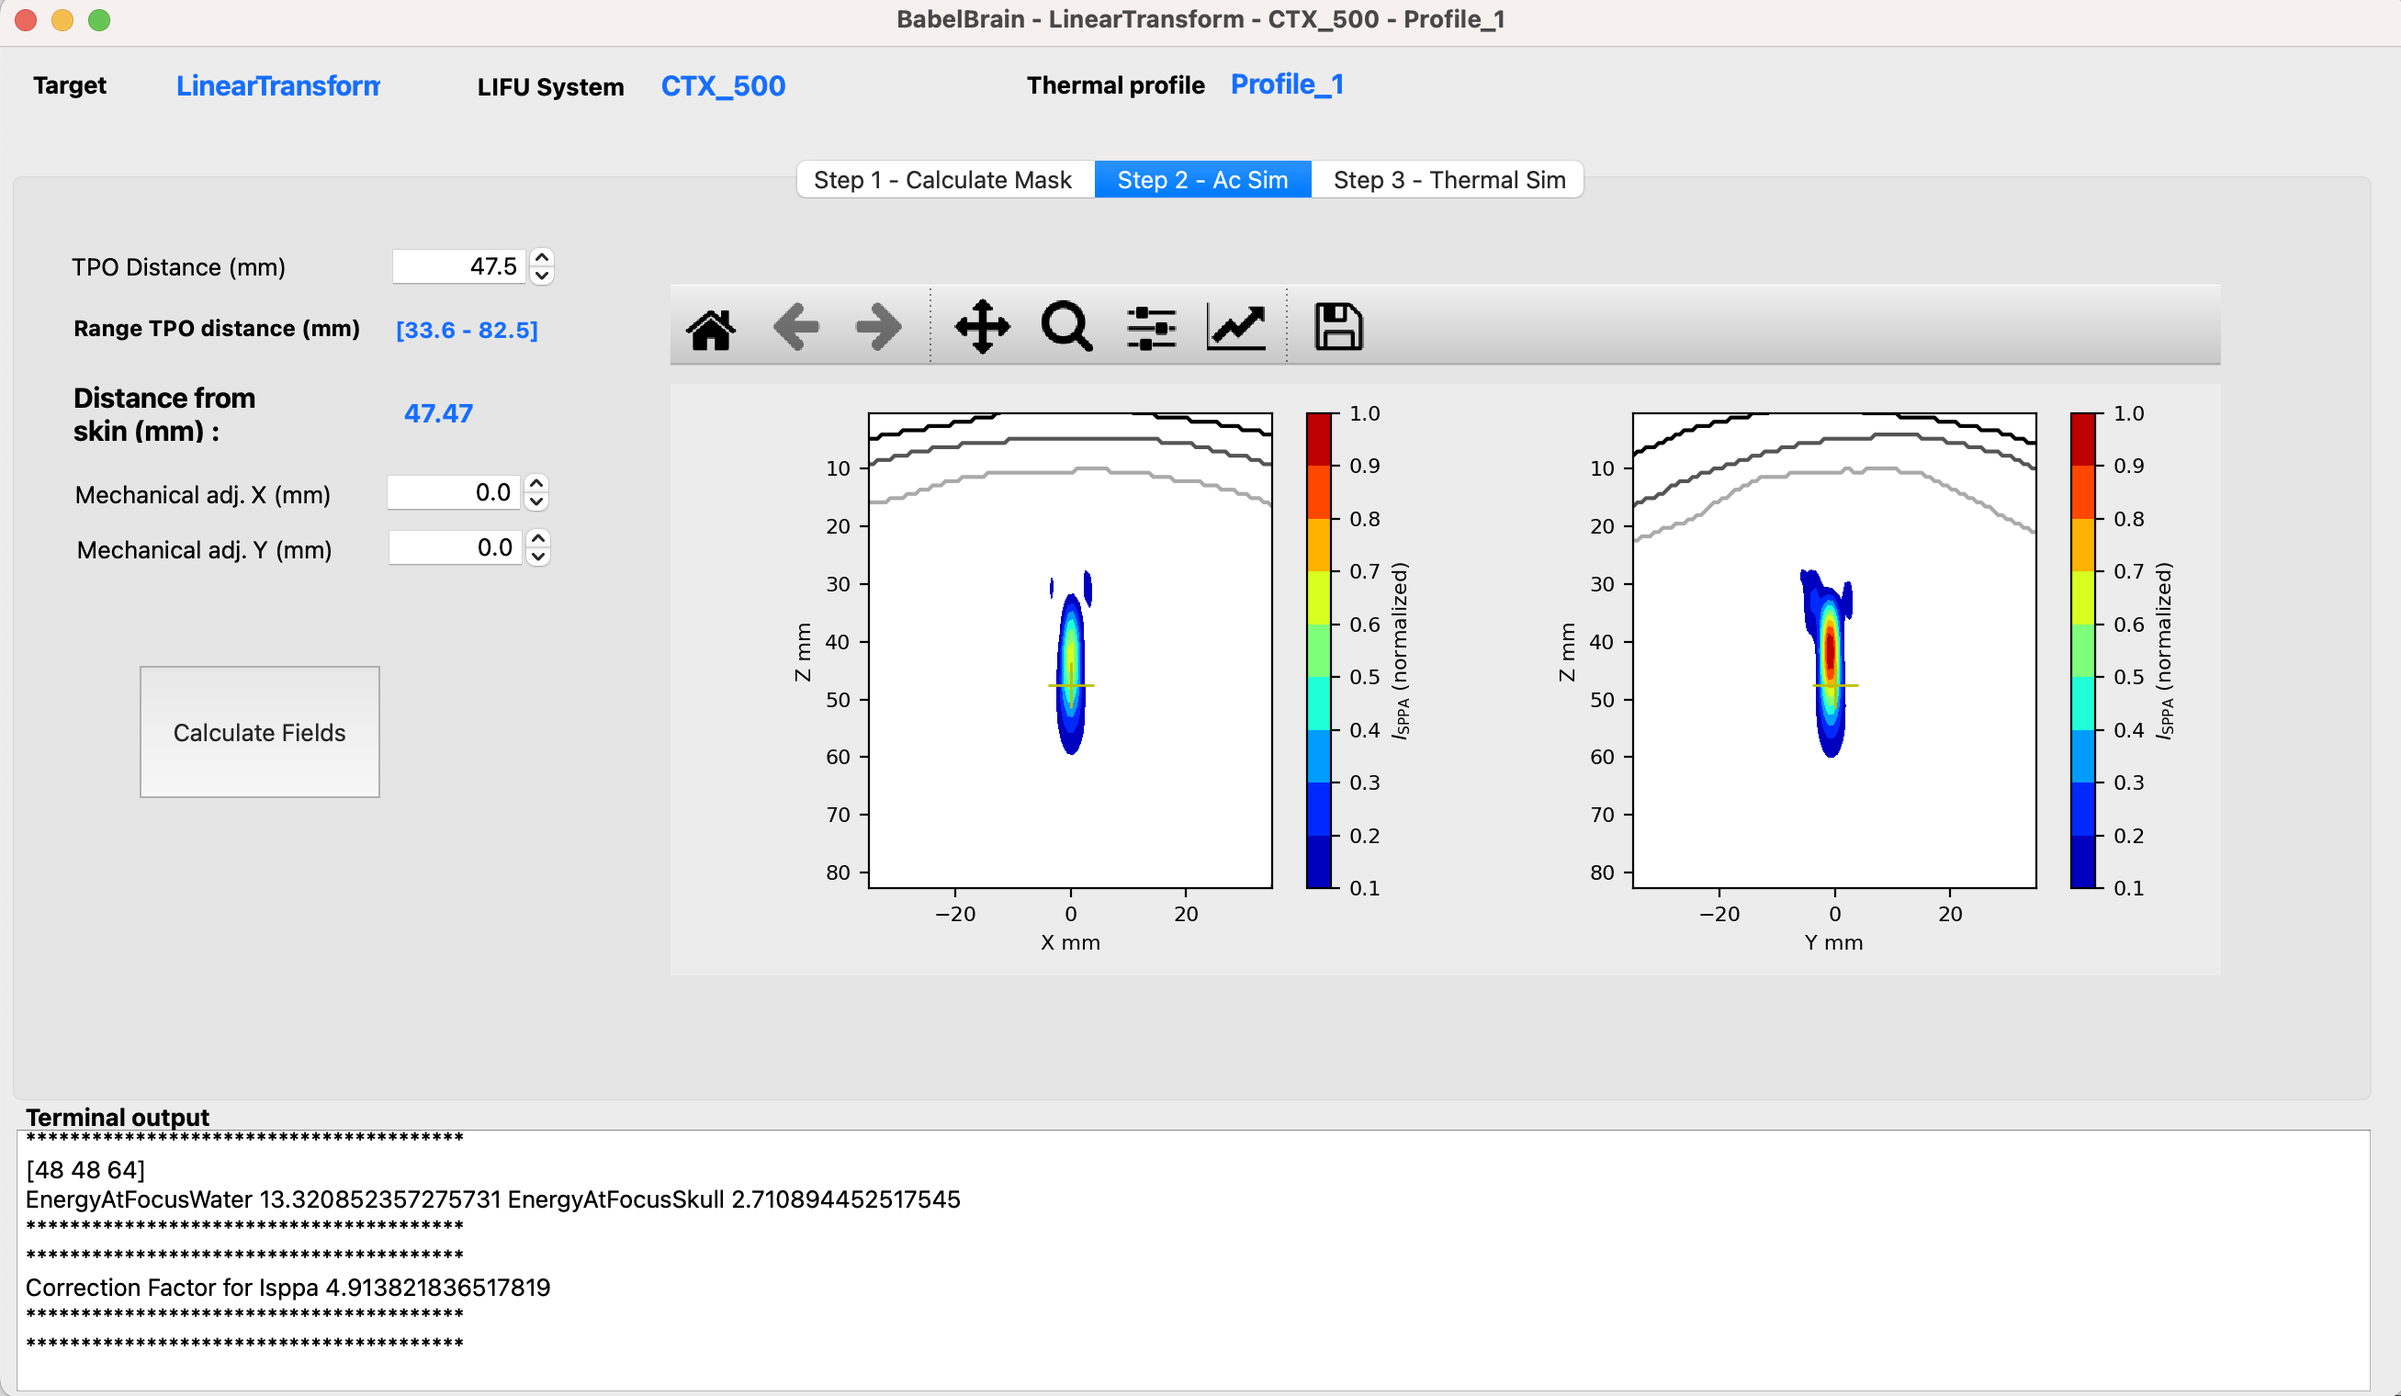
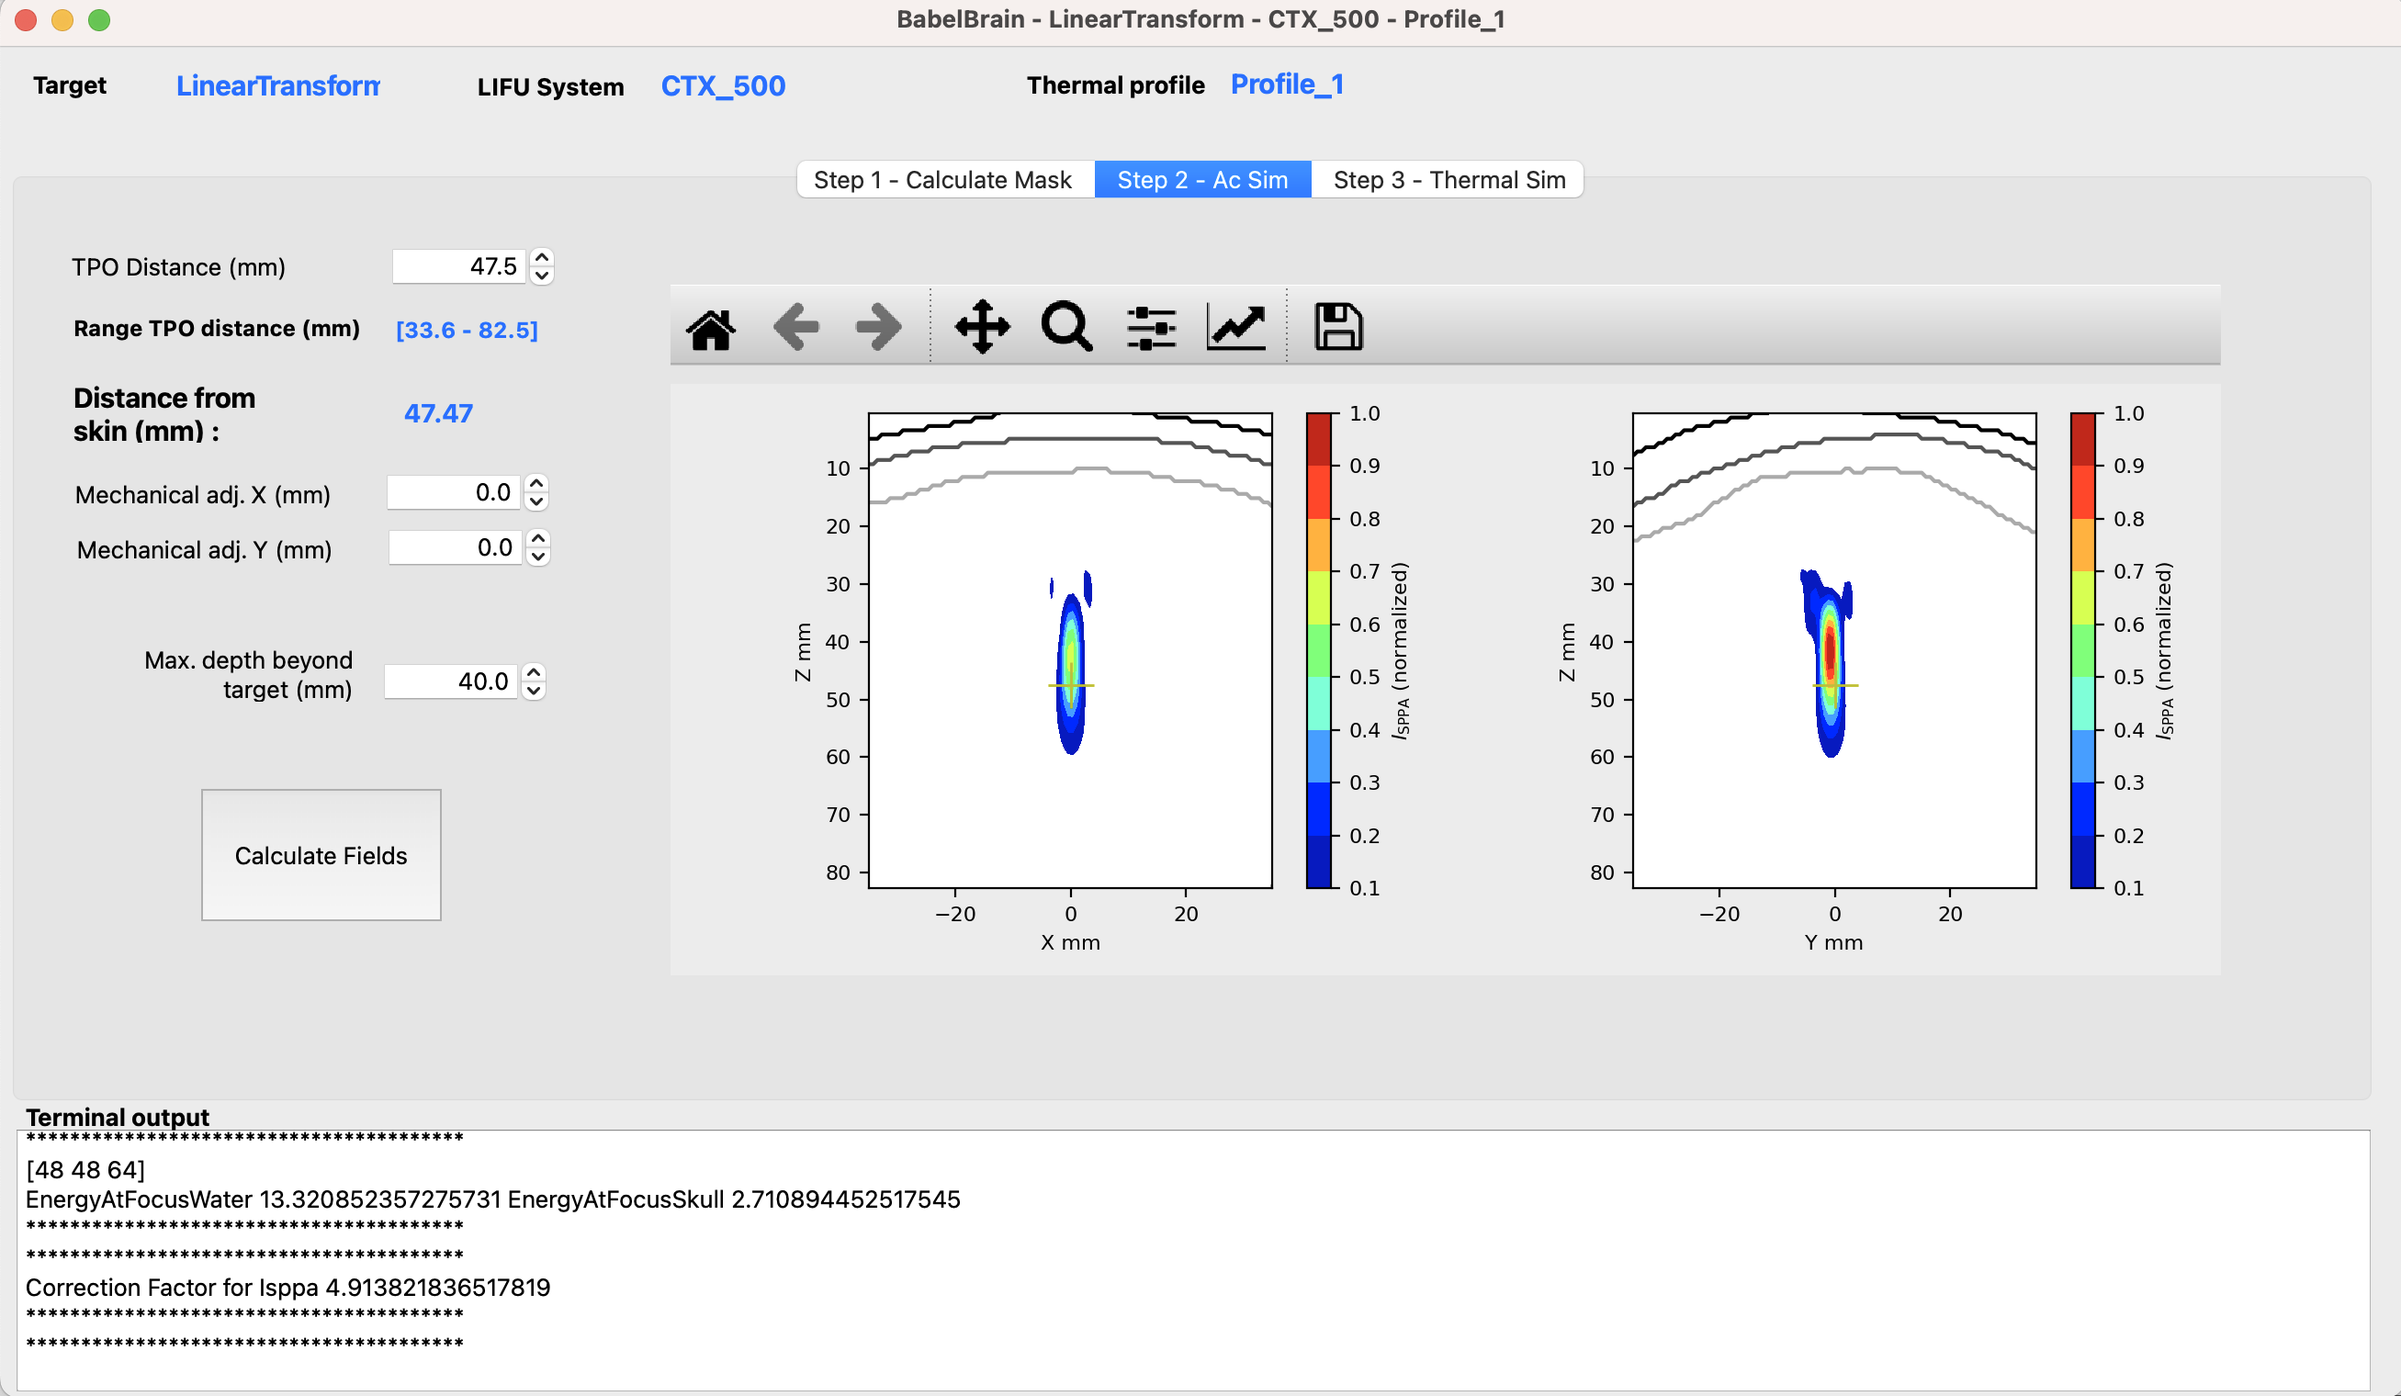
WIP

diff --git a/docs/docs/tutorial/pipeline.md b/docs/docs/tutorial/pipeline.md
@@ -6,8 +6,8 @@ BabelBrain takes 3D imaging data (MRI and, if available, CT) along with a trajec
 Currently,  three types of transducers are supported:
 * **Single**. This is a simple focusing single-element transducer. The user can specify diameter, focal length and a frequency between 100 kHz and 700 kHz.
 * **H317**. This is a 128-element phased array with a focal length of 135 mm and F#=0.9. The device is capable to operate at 250 kHz and 700 kHz.
-* **CTX_500**. This is a device commercialized by the company NeuroFUS that has 4 ring-elements, with a focal length of 63.2 mm and F# = 0.98, and operates at 500 kHz.
-* **H246**. This is a flat ring-type, flat device commercialized by the company NeuroFUS that has 2 ring-elements, with a diameter of 33.6 mm and operates at 500 kHz. It offers some degree of focusing by using two transducer elements.
+* **CTX_500**. This is a device commercialized by the company NeuroFUS that has 4 ring elements, with a focal length of 63.2 mm and F# = 0.98, and operates at 500 kHz.
+* **H246**. This is a flat ring-type, flat device commercialized by the company NeuroFUS that has 2 ring elements, with a diameter of 33.6 mm and operates at 500 kHz. It offers some degree of focusing by using two transducer elements.
 
 The specific capabilities of each transducer are considered during the simulations. 
 
@@ -23,12 +23,12 @@ The specific capabilities of each transducer are considered during the simulatio
     ```
 
     `<ID>` is a string for identification. A subdirectory `m2m_<ID>` will be created. Take note of this directory, this will be referred as the **SimNIBS output** directory in the following of this manual. The `--forceqform` parameter is required as often Nifti files are not 100% strict on how qform and sform matrices are saved. 
-* **Mandatory**: Identify the coordinates where you want to focus ultrasound in T1W space. There are many tools (FSL, SPM12, etc) that can be used to convert from standarized space (e.g. MNI) to T1W space.
+* **Mandatory**: Identify the coordinates where you want to focus ultrasound in T1W space. There are many tools (FSL, SPM12, etc) that can be used to convert from standardized space (e.g. MNI) to T1W space.
 * *Optional*: CT scan of the participant. Depending on the study being conducted, counting with a CT scan improves the precision of the simulation. 
-* *Optional*:: ZTE scan of the participant. A pseudo CT scan can be reconstructed using a Zero Echo Time MRI scan. Details on MRI scan parameters and methods for pseudo-CT reconstruction (using the "classical" approach) can be found in the work presented by [Miscouridou *et al.*](https://ieeexplore.ieee.org/document/9856605) (DOI: 10.1109/TUFFC.2022.3198522). The user needs only to provide the Nifti file of the ZTE scan. BabelBrain will do the transformation to pseudo CT as detailed in Miscouridou *et al.* A Nifti file with the pseudo CT will be generated.
+* *Optional*:: ZTE scan of the participant. A pseudo-CT scan can be reconstructed using a Zero Echo Time MRI scan. Details on MRI scan parameters and methods for pseudo-CT reconstruction (using the "classical" approach) can be found in the work presented by [Miscouridou *et al.*](https://ieeexplore.ieee.org/document/9856605) (DOI: 10.1109/TUFFC.2022.3198522). The user needs only to provide the Nifti file of the ZTE scan. BabelBrain will do the transformation to pseudo-CT as detailed in Miscouridou *et al.* A Nifti file with the pseudo-CT will be generated.
 
-### Important disclaimer on using exclusively T1W and T2W imaging vs. using CT/ZTE scans
-If no CT or ZTE scans are available, a mask representing the skull bone will be generated from the `headreco` or `charm` tools output. Be sure of inspecting the generated mask Nifti  file to ensure the mask is correctly calculated. Our experience indicates that `charm` tool produces a better skull mask extraction. When using only T1W and T2W as inputs, BabelBrain uses a generic mask to represent the skull bone (including regions of trabecular and cortical bone). Average values of speed of sound and attenuation are assigned to these bone layers. Consult the appendix section for details on the values used.
+### Important information on using exclusively T1W and T2W imaging vs. including CT/ZTE scans
+If no CT or ZTE scans are available, a mask representing the skull bone will be generated from the `headreco` or `charm` tools output. Be sure of inspecting the generated mask Nifti file to ensure the mask is correctly calculated. Our experience indicates that `charm` tool produces a better skull mask extraction. When using only T1W and T2W as inputs, BabelBrain uses a generic mask to represent the skull bone (including regions of trabecular and cortical bone). Average values of speed of sound and attenuation are assigned to these bone layers. Consult the appendix section for details on the values used.
 
 If a CT or ZTE scan is provided, a mapping of density, speed of sound and attenuation will be produced. Consult the appendix section for details on the mapping procedure.
 
@@ -71,8 +71,8 @@ Apply the transform to the  model and be sure the transformation is set to `loca
 <img src="Planning-12.png" height=200px>
 3. Adjust the rotation of the model (it will rotate around the tip) using the **rotation** (LR, PA, IS) controls until finding a trajectory that has a clear path and mimics how the transducer will be placed. Tip: Adjust the trajectory to make it orthogonal to the skin surface in the inline and inline90 views; this recreates the condition of placing a transducer aligned relative to the skin.
 <img src="Planning-13.png" height=400px>
-Note: If you navigate to other windows in 3DSlicer, the transition and rotation control may set back to 0s. But the transformation matrix will remain with the latest values applied. Any other adjustment will be added to the transformation matrix. Be sure that the `local` option is always selected.
-4. Save transformation in text format. Select "Save data" and select text format for the transform. Take note of the path. Suggestion: Select a directory in the same path where T1W or SimNIBS output is located. 
+Note: If you navigate to other windows in 3DSlicer, the transition and rotation control may be set back to 0s. But the transformation matrix will remain with the latest values applied. Any other adjustment will be added to the transformation matrix. Be sure that the `local` option is always selected.
+4. Save the transformation in text format. Select "Save data" and select text as the file format. Take note of the path. Suggestion: Select a directory in the same path where T1W or SimNIBS output is located. 
 
 ### Planning with Brainsight
 Brainsight is a proprietary software by Rogue Research (Montreal, Canada) for the planning and execution of non-invasive neuromodulation. This software has an existing feature that exports a trajectory that can be used in BabelBrain. The workflow to export a trajectory is very similar to 3DSlicer.
@@ -134,7 +134,7 @@ An input dialog will prompt the different input files required for the simulatio
 ### Domain generation
 The diagram below shows flowchart describing the process for the domain generation.
 
-<img src="nsclc-V2.svg" height=500px>
+<img src="nsclc-V2.svg" height=600px>
 
 The first step after specifying input data is to create the simulation domain. The available operating frequencies will depend on the selected transducer. The second main input is the resolution of the simulation expressed in the number of points per wavelength (PPW). The minimum for fast estimation is 6 PPW, and 9 PPW to meet criteria de convergence when compared to other [numerical tools](https://asa.scitation.org/doi/10.1121/10.0013426).
  Depending on if CT or ZTE scans are available, options to fine-tune the domain generation will be available. For CT scans, the user can adjust the threshold for bone detection (set by default to 300 HU). For ZTE scans the user can specify the thresholds to select normalized ZTE signal (by default 0.1 and 0.6) to convert to pseudo-CT. Please consult Miscouridou *et al.*](https://ieeexplore.ieee.org/document/9856605) for details on the "classical" approach to convert from ZTE to pseudo-CT.
@@ -165,7 +165,7 @@ The second tab in the GUI of Babelbrain shows the ultrasound simulation step.  T
 
 <img src="nsclc2-V2.svg" height=500px>
 
-The choices of this tab will depend on the selected transducer. Simulation results in this step are shown in normalized conditions. The final step (see below) later will show the results denormalized in function of the selected target intensity at the target.
+The choices of this tab will depend on the selected transducer. Simulation results in this step are shown in normalized conditions. The final step (see below) later will show the results denormalized in function of the selected intensity at the target. Common to all transducers, the distance of the maximal depth beyond the target location is set to a user-configurable distance of 40 mm.
 
 ### CTX_500
 For the CTX_500 transducer, the initial assumption is that this type of transducer will be placed in direct contact with the skin and that the focusing distance will be adjusted according to the desired target. 
@@ -179,7 +179,7 @@ It is recommended to simulate with the default values to evaluate the degree of 
 |:-:|
 |*Simulation results with default values*|
 
-The results window will show two orthogonal views of normalized acoustic intensity. The intensity in the skin and skull regions is masked out (it can be visualized later in those regions in step 3). In this step, the main focus is to ensure a correct spatial focusing at the target. In the example, a shift of 5 mm of the focal spot towards the transducer can be observed. This shift can be corrected by adding 5 mm in the TPO Distance input (in the example, we adjust to 52.5 mm). Also, there is a small lateral shift in the negative "Y" direction. This can be corrected with the "Mechanical" adjustment controls (in this example we adjust +1mm in the Y direction). Please note that in the simulation domain, X, Y and Z are not mapped to subject coordinates. However, at the end of the simulations there will be a report in which direction in the T1W space this adjustment translates. 
+The results window will show two orthogonal views of normalized acoustic intensity. The intensity in the skin and skull regions is masked out (it can be visualized later in those regions in step 3). In this step, the main goal is to ensure a correct spatial focusing on the target. In the example, a shift of 5 mm of the focal spot towards the transducer can be observed. This shift can be corrected by adding 5 mm in the TPO Distance input (in the example, we adjust to 52.5 mm). Also, there is a small lateral shift in the negative "Y" direction. This can be corrected with the "Mechanical" adjustment controls (in this example we adjust +1mm in the Y direction). Please note that in the simulation domain, X, Y and Z are not mapped to subject coordinates. However, at the end of the simulations, there will be a report in which direction in the T1W space this adjustment translates. 
 
 After doing the adjustments, the simulation can be repeated.
 
@@ -188,27 +188,17 @@ After doing the adjustments, the simulation can be repeated.
 |*Simulation results after correction*|
 
 ### H246
-Similar as for the CTX_500 transducer, the initial assumption for the H246 is that it will be placed in direct contact with the skin and that the focusing distance will be adjusted according to the desired target. 
-<img src="Simulation-5.png" height=350px>
+The H246 transducer has a similar operation as the CTX_500. The steps presented above apply similarly. As the H246 transducer has a much longer focal length, consider extending the maximal depth of simulations.
+<img src="Simulation-9.png" height=350px>
 
 
 ### H317
-The H317 is a large transducer that uses a coupling cone that is in contact with the skin 
+The H317 is a large transducer that uses a coupling cone that is in contact with the skin. The user interface shows small differences compared to CTX_500 and H246. There is a parameter for the `Distance cone to Focus` that depends on the acoustic cone used for coupling. Because this transducer has 128 elements, the user interface shows the option to perform electronic refocusing.
  
-<img src="Simulation-5.png" height=350px>
+<img src="Simulation-10.png" height=350px>
 
-The initial "TPO Distance" (an adjustable parameter in the CTX_500 device) is calculated based on the distance skin to the target. 
+### Single
+The "Single" transducer is a generic focusing transducer is a large transducer that uses a coupling cone that is in contact with the skin. The user interface shows small differences compared to CTX_500 and H246. There is a parameter for the `Distance cone to Focus` that depends on the acoustic cone used for coupling. Because this transducer has 128 elements, the user interface shows the option to perform electronic refocusing.
+ 
+<img src="Simulation-10.png" height=350px>
 
-It is recommended to simulate with the default values to evaluate the degree of focus shift caused by the skull. Simulation should take a couple of minutes in a M1 Max system.
-
-| <img src="Simulation-6.png" height=350px> |
-|:-:|
-|*Simulation results with default values*|
-
-The results window will show two orthogonal views of normalized acoustic intensity. The intensity in the skin and skull regions is masked out (it can be visualized later in those regions in step 3). In this step, the main focus is to ensure a correct spatial focusing at the target. In the example, a shift of 5 mm of the focal spot towards the transducer can be observed. This shift can be corrected by adding 5 mm in the TPO Distance input (in the example, we adjust to 52.5 mm). Also, there is a small lateral shift in the negative "Y" direction. This can be corrected with the "Mechanical" adjustment controls (in this example we adjust +1mm in the Y direction). Please note that in the simulation domain, X, Y and Z are not mapped to subject coordinates. However, at the end of the simulations there will be a report in which direction in the T1W space this adjustment translates. 
-
-After doing the adjustments, the simulation can be repeated.
-
-| <img src="Simulation-7.png" height=350px> |
-|:-:|
-|*Simulation results after correction*|
